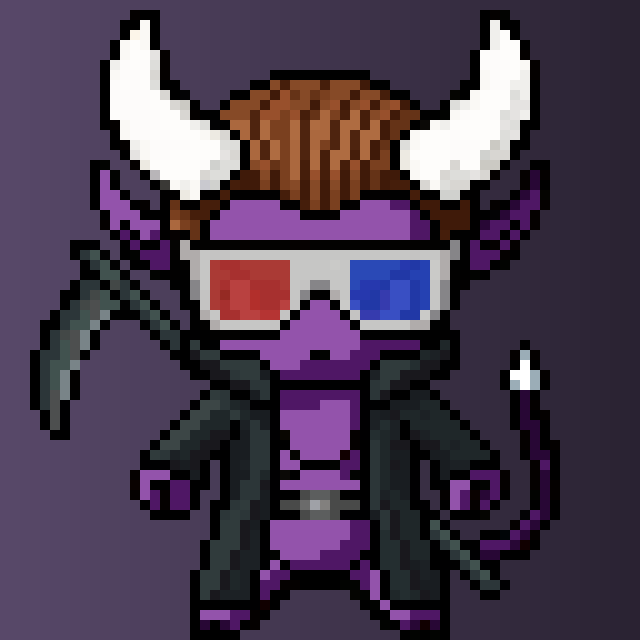
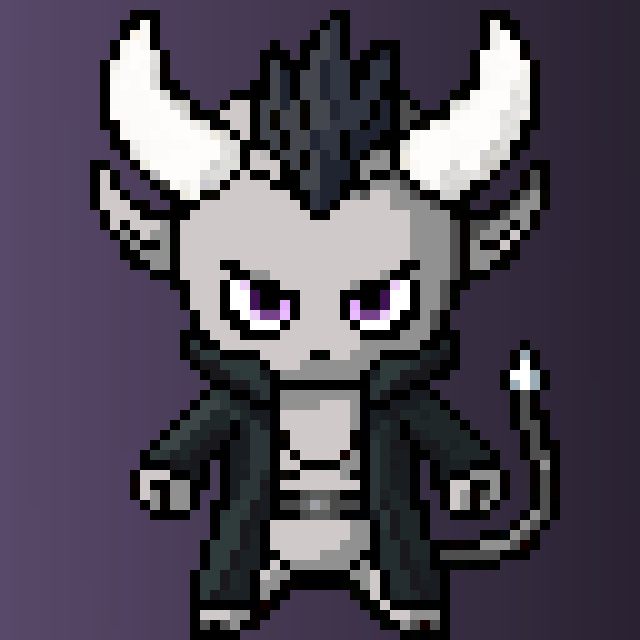
Update jonnyd's team portrait and stop bolding Profile in the sidebar.

diff --git a/src/index.css b/src/index.css
@@ -986,9 +986,9 @@ button:active:not(:disabled),
 
 .sidebar-nav__profile-label {
   display: inline-block;
-  color: #fff;
-  font-weight: 700;
-  letter-spacing: 0.06em;
+  color: inherit;
+  font-weight: inherit;
+  letter-spacing: inherit;
 }
 
 .sidebar-nav__link:hover {
